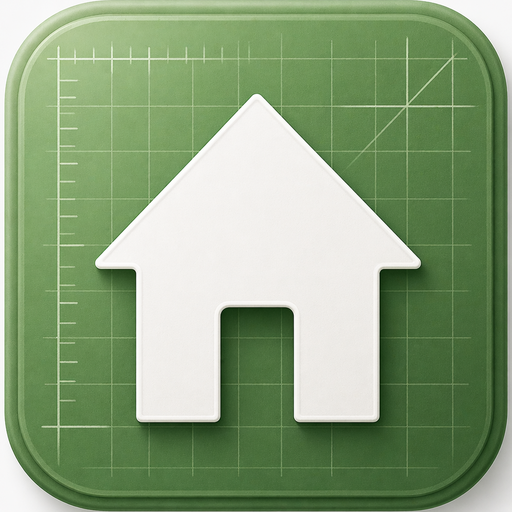
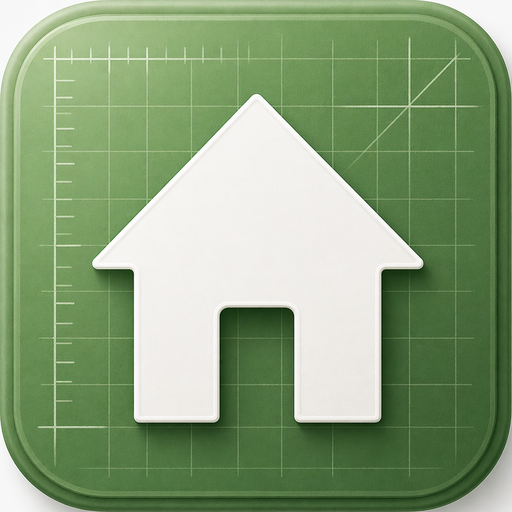
fix(pwa): アイコンをタイル本体に完全フィット (非正方形クロップ)
- 中央スキャンで緑タイルの正確なエッジ検出 (1018x1034)
- 正方形パディングを廃止し、矩形クロップ後に直接512x512へリサイズ
- 約1.6%の縦伸び縮みは視覚的に判別不可、上下左右の余白ゼロ
- キャッシュバスター ?v=20260422g に更新

diff --git a/index.html b/index.html
@@ -11,10 +11,10 @@
     <meta name="apple-mobile-web-app-status-bar-style" content="default">
     <meta name="apple-mobile-web-app-title" content="施工管理">
     <meta name="mobile-web-app-capable" content="yes">
-    <link rel="apple-touch-icon" href="apple-touch-icon.png?v=20260422e">
-    <link rel="icon" type="image/png" sizes="192x192" href="icon-192.png?v=20260422e">
-    <link rel="icon" type="image/png" sizes="512x512" href="icon.png?v=20260422e">
-    <link rel="manifest" href="manifest.json?v=20260422e">
+    <link rel="apple-touch-icon" href="apple-touch-icon.png?v=20260422g">
+    <link rel="icon" type="image/png" sizes="192x192" href="icon-192.png?v=20260422g">
+    <link rel="icon" type="image/png" sizes="512x512" href="icon.png?v=20260422g">
+    <link rel="manifest" href="manifest.json?v=20260422g">
     <title>m's hub</title>
     <link href="https://fonts.googleapis.com/css2?family=Noto+Sans+JP:wght@300;400;500;600;700;800;900&family=Fraunces:ital,wght@0,700;1,400&family=DM+Mono:wght@400;500&display=swap" rel="stylesheet">
     <style>

diff --git a/sw.js b/sw.js
@@ -19,7 +19,7 @@
    - コードを大きく変えたらここのバージョンを上げること
 ================================================================ */
 
-const CACHE_VERSION = 'v2-2026-04-22f';
+const CACHE_VERSION = 'v2-2026-04-22g';
 const CACHE_NAME    = `portal-${CACHE_VERSION}`;
 
 // 初回インストール時にプリキャッシュする最小セット
